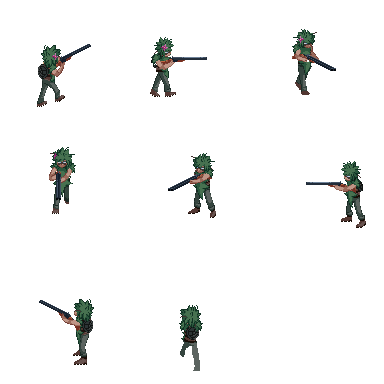
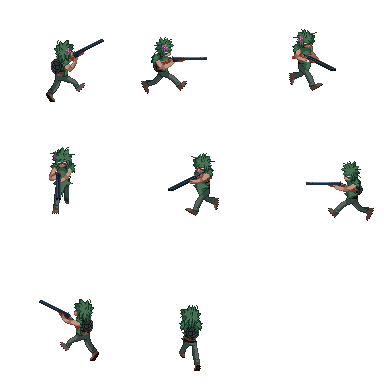
walk finished?

diff --git a/SharedSource/ReplaySequence/WorldObjectActions/ActorSequenceAction/UnitMove.cs b/SharedSource/ReplaySequence/WorldObjectActions/ActorSequenceAction/UnitMove.cs
@@ -1,4 +1,5 @@
 using System;
+using System;
 using System.Collections.Generic;
 using System.Linq;
 using System.Threading;
@@ -152,7 +153,7 @@ public class UnitMove : UnitSequenceAction
     {
         return Actor != null && !Actor.Panicked;
     }
-    const int walkFps = 4;
+    const int walkFps = 6;
 
     protected override void RunSequenceAction()
     {
